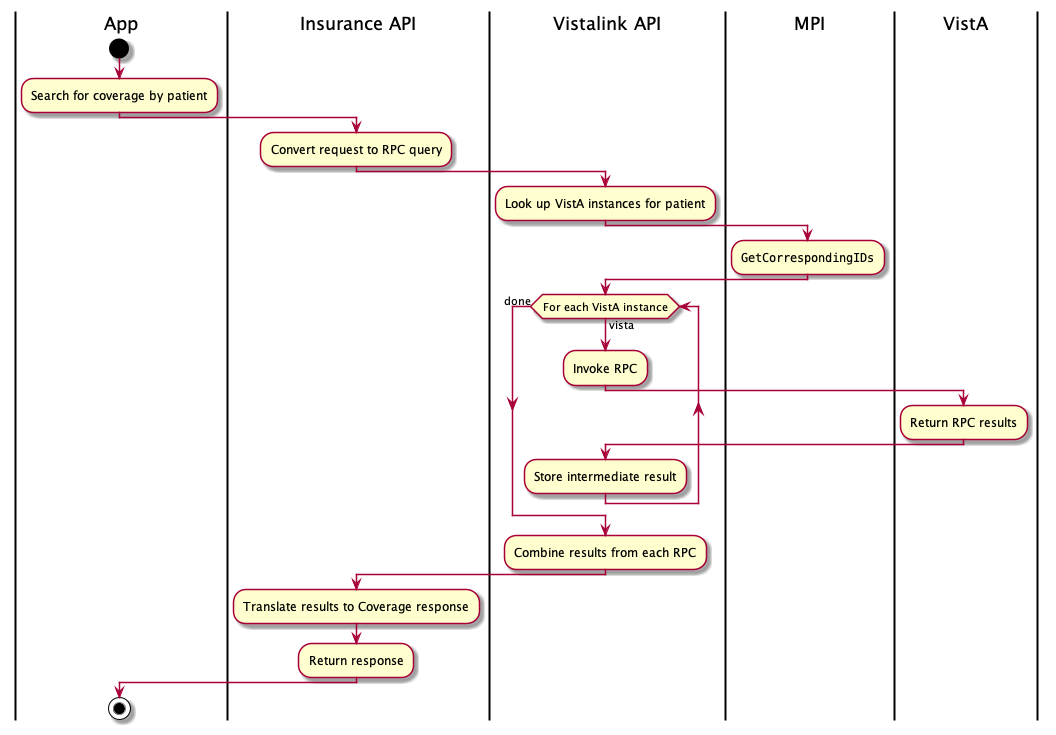
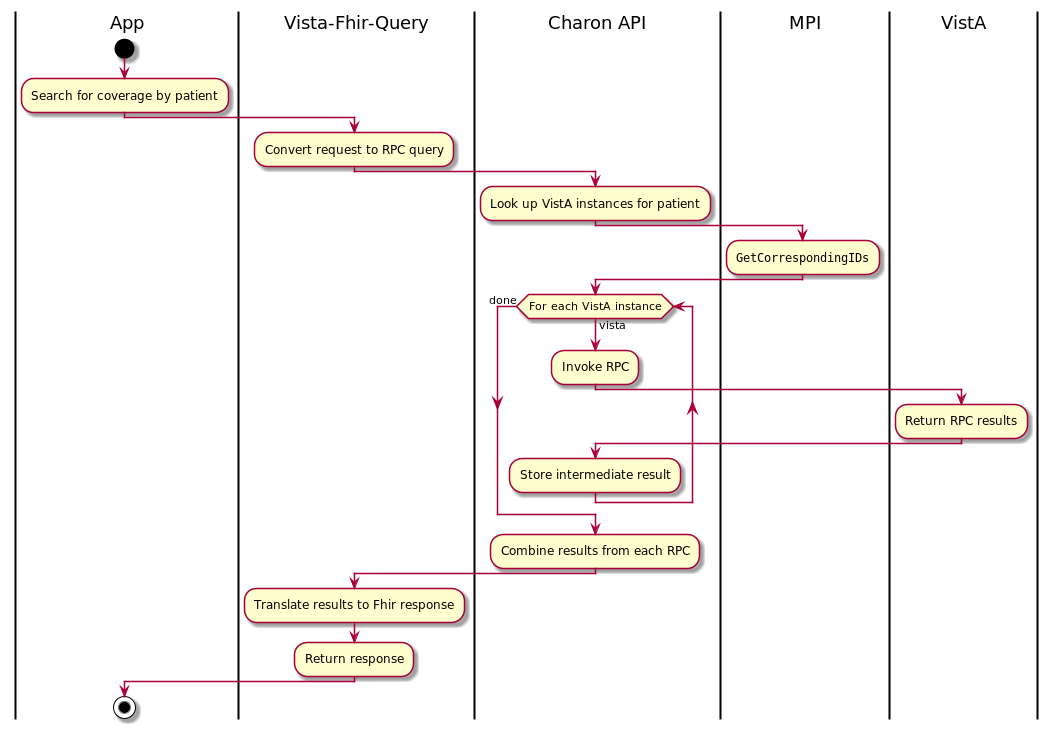
Docs

diff --git a/charon/src/main/java/gov/va/api/lighthouse/charon/service/config/ClientKeyProtectedEndpointConfig.java b/charon/src/main/java/gov/va/api/lighthouse/charon/service/config/ClientKeyProtectedEndpointConfig.java
@@ -24,7 +24,7 @@ public class ClientKeyProtectedEndpointConfig {
 
   @Bean
   FilterRegistrationBean<ClientKeyProtectedEndpointFilter> clientKeyProtectedEndpointFilter(
-      @Value("${vistalink.rpc.client-keys}") String rpcClientKeysCsv) {
+      @Value("${charon.rpc.client-keys}") String rpcClientKeysCsv) {
     var registration = new FilterRegistrationBean<ClientKeyProtectedEndpointFilter>();
 
     List<String> clientKeys;
@@ -32,7 +32,7 @@ public class ClientKeyProtectedEndpointConfig {
     if ("disabled".equals(rpcClientKeysCsv)) {
       log.warn(
           "ClientKeyProtectedEndpointFilter is disabled. To enable, "
-              + "set vistalink.rpc.client-keys to a value other than disabled.");
+              + "set charon.rpc.client-keys to a value other than disabled.");
 
       registration.setEnabled(false);
       clientKeys = List.of();
@@ -50,7 +50,7 @@ public class ClientKeyProtectedEndpointConfig {
 
     registration.setOrder(1);
 
-    registration.addUrlPatterns("/rpc/*", "/vistalink/rpc/*");
+    registration.addUrlPatterns("/rpc/*", PathRewriteConfig.leadingPath() + "rpc/*");
 
     return registration;
   }

diff --git a/charon/src/main/java/gov/va/api/lighthouse/charon/service/config/PathRewriteConfig.java b/charon/src/main/java/gov/va/api/lighthouse/charon/service/config/PathRewriteConfig.java
@@ -11,10 +11,14 @@ import org.springframework.core.Ordered;
 @Configuration
 public class PathRewriteConfig {
 
+  static String leadingPath() {
+    return "/charon/";
+  }
+
   @Bean
   FilterRegistrationBean<PathRewriteFilter> pathRewriteFilter() {
     var registration = new FilterRegistrationBean<PathRewriteFilter>();
-    PathRewriteFilter filter = PathRewriteFilter.builder().removeLeadingPath("/vistalink/").build();
+    PathRewriteFilter filter = PathRewriteFilter.builder().removeLeadingPath(leadingPath()).build();
     registration.setFilter(filter);
     registration.setOrder(Ordered.LOWEST_PRECEDENCE);
     registration.addUrlPatterns(filter.removeLeadingPathsAsUrlPatterns());

diff --git a/README.md b/README.md
@@ -1,9 +1,9 @@
-# Vistalink API
+# Charon API
 
-This Vistalink API provides a simplified mechanism for executing VistA RPC. The REST API allows
+This Charon API provides a simplified mechanism for executing VistA RPC. The REST API allows
 business applications the ability interact with VistA without the complexity of integrating EJB
-technology. The Vistalink API also provides RPC broadcasting, allow an application to invoke an RPC
-across a number of VistA instances simultaneously. In particular, the Vistalink API will discover
+technology. The Charon API also provides RPC broadcasting, allow an application to invoke an RPC
+across a number of VistA instances simultaneously. In particular, the Charon API will discover
 relevant VistA sites for a patient.
 
 ![components](src/plantuml/vl-api-components.png)
@@ -32,19 +32,19 @@ Note:
 
 ## Invoking RPCs
 
-Clients will invoke the Vistalink API by posting a request. Requests contain three pieces of
+Clients will invoke the Charon API by posting a request. Requests contain three pieces of
 information:
 
-- **The VistA credentials.** The Vistalink API does not provide credentials, each application must
+- **The VistA credentials.** The Charon API does not provide credentials, each application must
   provide their own.
-- **The target vistas.** The Vistalink API allows clients to interact with VistA instances by name.
+- **The target vistas.** The Charon API allows clients to interact with VistA instances by name.
   Details such as host, port, division IEN, and network connectivity are handled by the API.
 - **The RPC details.** Clients must provide the RPC name, context, and any parameters. RPC details
   support macros for performing common, but complex tasks, such as substituting an ICN with vista
   site specific DNF value. See [Macros](macros.md)
 
-Applications will invoke the Vistalink API to gather data for a particular patient. In turn, the
-Vistalink API will access data from MPI to determine which VistA instances are likely to contain
+Applications will invoke the Charon API to gather data for a particular patient. In turn, the
+Charon API will access data from MPI to determine which VistA instances are likely to contain
 meaningful data for the patient.
 
 ![typical-use-case](src/plantuml/typical-use-case.png)
@@ -104,7 +104,7 @@ HTTP Status
 
 ### Vistalink "invoke RPC" flow
 
-The Vistalink API will determine the VistA instances to involve in the request based on the `target`
+The Charon API will determine the VistA instances to involve in the request based on the `target`
 specification of the request. VistA instances will be invoked in parallel.
 
 ![flow](src/plantuml/vistalink-api-flow.png)
@@ -122,7 +122,7 @@ specification of the request. VistA instances will be invoked in parallel.
 
 ## Under the hood
 
-The Vistalink isolates the details of interacting with VistA to just a couple of classes. This
+The Charon API isolates the details of interacting with VistA to just a couple of classes. This
 approach allows for easier testing and a separation of concerns.
 
 ![class](src/plantuml/vl-classes.png)
@@ -147,12 +147,12 @@ VistaLink EJB technology is very difficult to mock when compared to REST or SOAP
 communication. Mock integration testing will be skipped. Unit tests and live integration tests will
 be required to validate functionality.
 
-To support synthetic environments, a Mock Vistalink API will be created, similar to Mock EE. This
+To support synthetic environments, a Mock Charon API will be created, similar to Mock EE. This
 mock implementation will have canned responses based on RPC requests.
 
 ## Manually testing RPCs.
 
-The Vistalink API provides a test image that can be used for ad-hoc testing of RPCs.
+The Charon API provides a test image that can be used for ad-hoc testing of RPCs.
 
 ```
 docker run --rm --env-file vista.env vasdvp/lighthouse-vistalink-tests:latest run --module-name vistalink-tests --test-pattern '.*VistalinkRpcInvokerTest'
